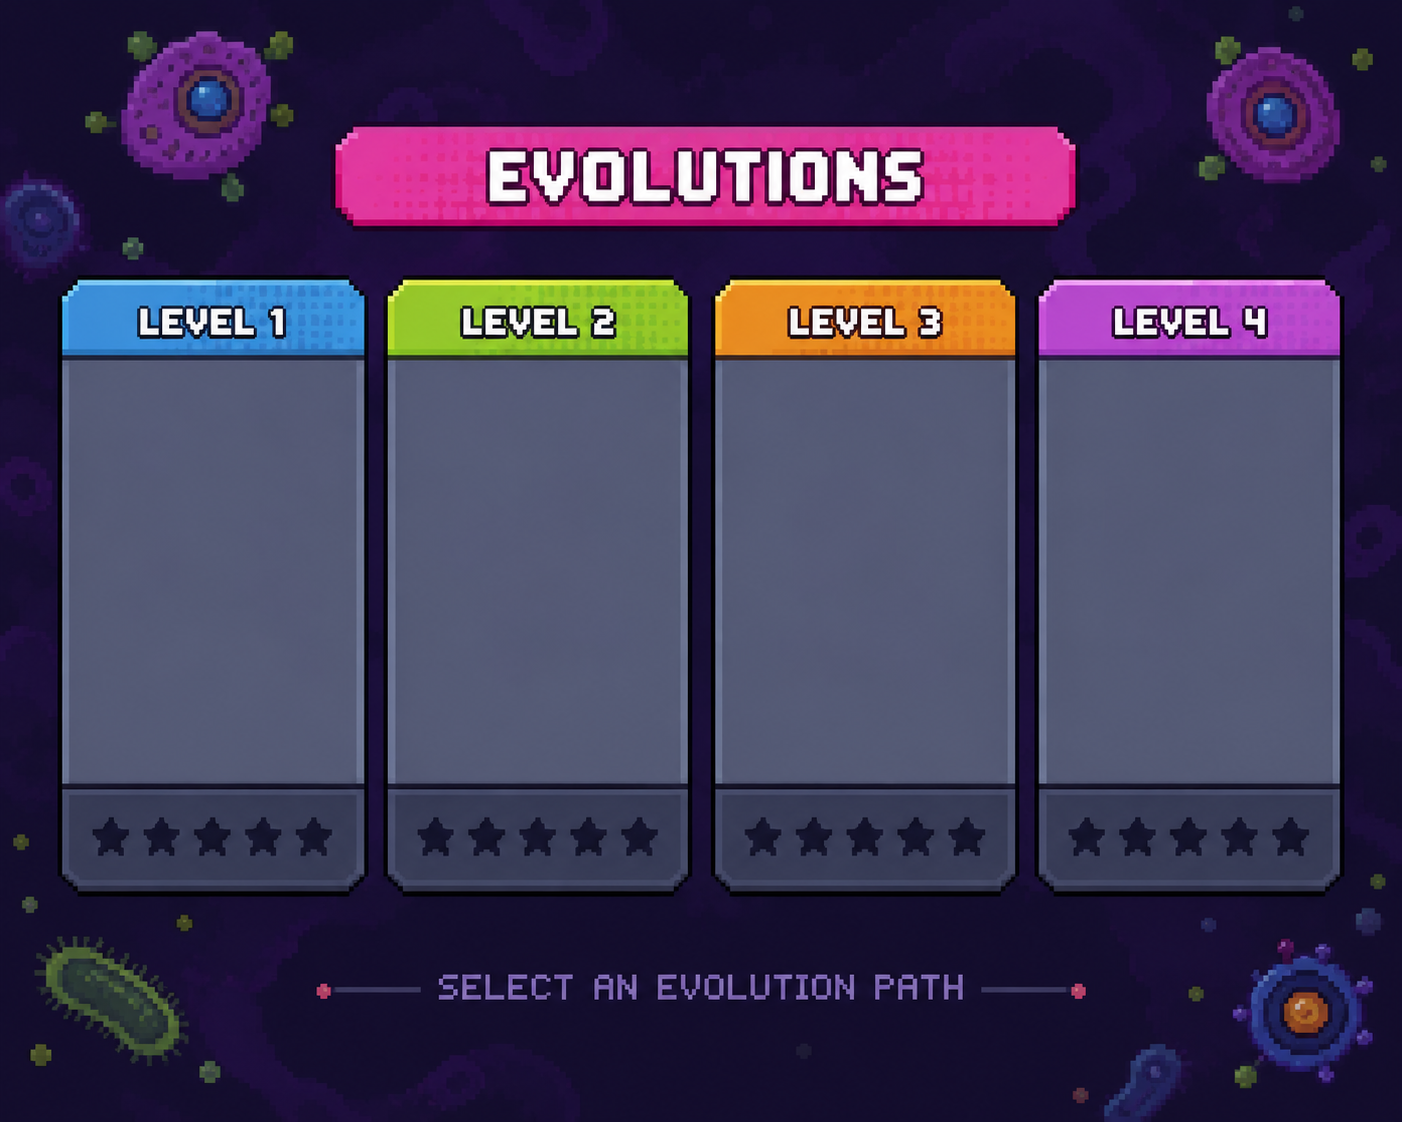
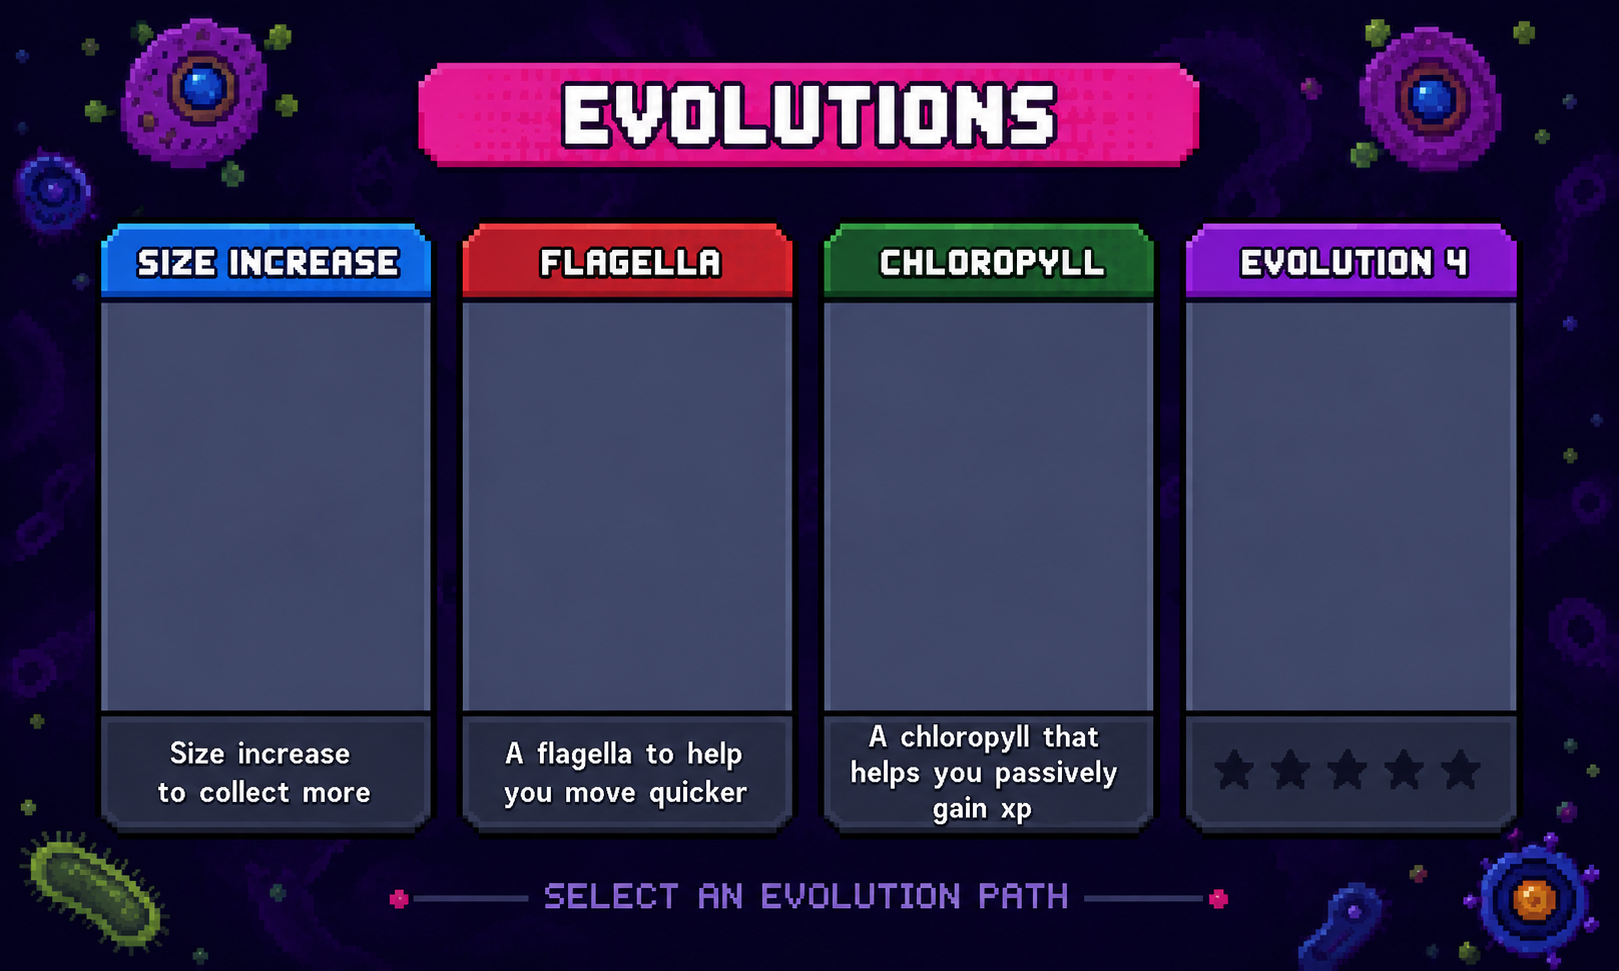
New evolution meanu

diff --git a/Game1.cs b/Game1.cs
@@ -201,13 +201,6 @@ namespace Final_Project
                         if (closeRect.Contains(msEarly.Position))
                         {
                             evolutionMenuOpen = false;
-                            if (resizedForMenu)
-                            {
-                                _graphics.PreferredBackBufferWidth = Math.Max(1, prevBackWidth);
-                                _graphics.PreferredBackBufferHeight = Math.Max(1, prevBackHeight);
-                                _graphics.ApplyChanges();
-                                resizedForMenu = false;
-                            }
                         }
                         else if (firstColRect.Contains(msEarly.Position))
                         {
@@ -222,28 +215,14 @@ namespace Final_Project
                             xpCurrent = 0;
                             xpFull = false;
                             evolutionMenuOpen = false;
-                            if (resizedForMenu)
-                            {
-                                _graphics.PreferredBackBufferWidth = Math.Max(1, prevBackWidth);
-                                _graphics.PreferredBackBufferHeight = Math.Max(1, prevBackHeight);
-                                _graphics.ApplyChanges();
-                                resizedForMenu = false;
-                            }
                         }
                         else if (secondColRect.Contains(msEarly.Position))
                         {
                             hasFlagella = true;
-                            cell.Speed *= 1.35f; // Boost speed by 35% permanently
+                            cell.Speed *= 1.35f;
                             xpCurrent = 0;
                             xpFull = false;
                             evolutionMenuOpen = false;
-                            if (resizedForMenu)
-                            {
-                                _graphics.PreferredBackBufferWidth = Math.Max(1, prevBackWidth);
-                                _graphics.PreferredBackBufferHeight = Math.Max(1, prevBackHeight);
-                                _graphics.ApplyChanges();
-                                resizedForMenu = false;
-                            }
                         }
                         else if (thirdColRect.Contains(msEarly.Position))
                         {
@@ -251,13 +230,6 @@ namespace Final_Project
                             xpCurrent = 0;
                             xpFull = false;
                             evolutionMenuOpen = false;
-                            if (resizedForMenu)
-                            {
-                                _graphics.PreferredBackBufferWidth = Math.Max(1, prevBackWidth);
-                                _graphics.PreferredBackBufferHeight = Math.Max(1, prevBackHeight);
-                                _graphics.ApplyChanges();
-                                resizedForMenu = false;
-                            }
                         }
                     }
                 }
@@ -451,16 +423,6 @@ namespace Final_Project
                     int menuW = evoMenuBgSprite.Width;
                     int menuH = evoMenuBgSprite.Height;
 
-                    if (!resizedForMenu)
-                    {
-                        prevBackWidth = _graphics.PreferredBackBufferWidth;
-                        prevBackHeight = _graphics.PreferredBackBufferHeight;
-                        _graphics.PreferredBackBufferWidth = menuW;
-                        _graphics.PreferredBackBufferHeight = menuH;
-                        _graphics.ApplyChanges();
-                        resizedForMenu = true;
-                    }
-
                     vp = GraphicsDevice.Viewport;
 
                     int scaledW = menuW;
@@ -478,13 +440,6 @@ namespace Final_Project
                         if (closeRect.Contains(ms.Position))
                         {
                             evolutionMenuOpen = false;
-                            if (resizedForMenu)
-                            {
-                                _graphics.PreferredBackBufferWidth = Math.Max(1, prevBackWidth);
-                                _graphics.PreferredBackBufferHeight = Math.Max(1, prevBackHeight);
-                                _graphics.ApplyChanges();
-                                resizedForMenu = false;
-                            }
                         }
                     }
                 }
@@ -595,9 +550,7 @@ namespace Final_Project
                 {
                     int menuW = evoMenuBgSprite.Width;
                     int menuH = evoMenuBgSprite.Height;
-                    float scaleX = (vp.Width * 0.9f) / menuW;
-                    float scaleY = (vp.Height * 0.9f) / menuH;
-                    float menuScale = Math.Min(1f, Math.Min(scaleX, scaleY));
+                    float menuScale = (float)vp.Width / menuW;
 
                     int scaledW = Math.Max(1, (int)(menuW * menuScale));
                     int scaledH = Math.Max(1, (int)(menuH * menuScale));
@@ -615,7 +568,7 @@ namespace Final_Project
                         if (previewSet != null && previewSet.Length > 0)
                         {
                             var tex = previewSet[0];
-                            float previewScale = baseCellScale + (currentLevel) * 0.06f;
+                            float previewScale = (baseCellScale + (currentLevel) * 0.06f) * 0.75f;
                             int drawW = (int)(tex.Width * previewScale);
                             int drawH = (int)(tex.Height * previewScale);
                             int offset = Math.Max(4, firstColRect.Width / 10);
@@ -629,8 +582,8 @@ namespace Final_Project
                     if (flagellaSprites != null && flagellaSprites.Length > 0)
                     {
                         var ftex = flagellaSprites[0];
-                        int fw = Math.Min(colW - 16, ftex.Width);
-                        int fh = Math.Min(scaledH - 16, ftex.Height);
+                        int fw = Math.Min((int)(colW * 0.5f) - 16, ftex.Width);
+                        int fh = Math.Min((int)(scaledH * 0.5f) - 16, ftex.Height);
                         int fx = secondColRect.X + (secondColRect.Width - fw) / 2;
                         int fy = secondColRect.Y + (secondColRect.Height - fh) / 2;
                         _spriteBatch.Draw(ftex, new Rectangle(fx, fy, fw, fh), Color.White);
@@ -643,8 +596,7 @@ namespace Final_Project
                         float pad = 16f;
                         float availableW = Math.Max(1, thirdColRect.Width - (int)pad);
                         float availableH = Math.Max(1, thirdColRect.Height - (int)pad);
-                        // Force chlorophyll preview to be at most 50% of its original size
-                        float scaleC = Math.Min(0.5f, Math.Min(availableW / chlorophyllSprite.Width, availableH / chlorophyllSprite.Height));
+                        float scaleC = Math.Min(0.375f, Math.Min(availableW / chlorophyllSprite.Width, availableH / chlorophyllSprite.Height));
                         int cw = Math.Max(1, (int)(chlorophyllSprite.Width * scaleC));
                         int ch = Math.Max(1, (int)(chlorophyllSprite.Height * scaleC));
                         int cx = thirdColRect.X + (thirdColRect.Width - cw) / 2;
@@ -654,8 +606,8 @@ namespace Final_Project
 
                     if (evoCloseSprite != null)
                     {
-                        int closeW = Math.Max(8, (int)(evoCloseSprite.Width * 0.25f));
-                        int closeH = Math.Max(8, (int)(evoCloseSprite.Height * 0.25f));
+                        int closeW = Math.Max(8, (int)(evoCloseSprite.Width * 0.0625f));
+                        int closeH = Math.Max(8, (int)(evoCloseSprite.Height * 0.0625f));
                         int closePad = 12;
                         _spriteBatch.Draw(evoCloseSprite, new Rectangle(menuX + scaledW - closeW - closePad, menuY + closePad, closeW, closeH), Color.White);
                     }
